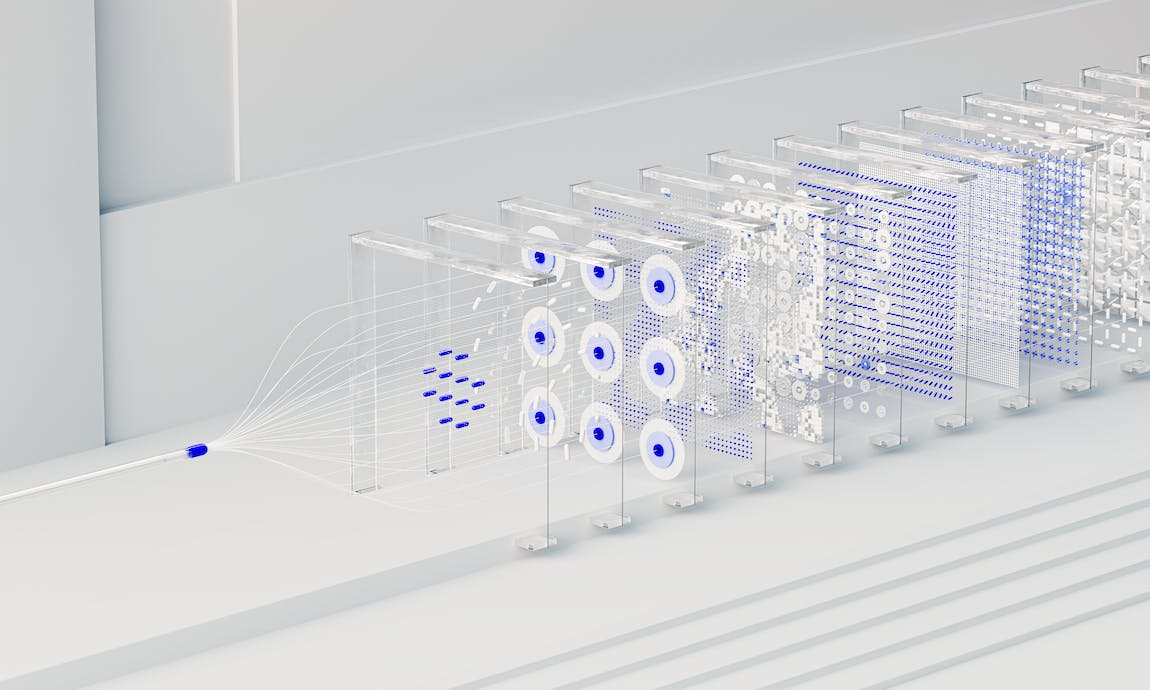
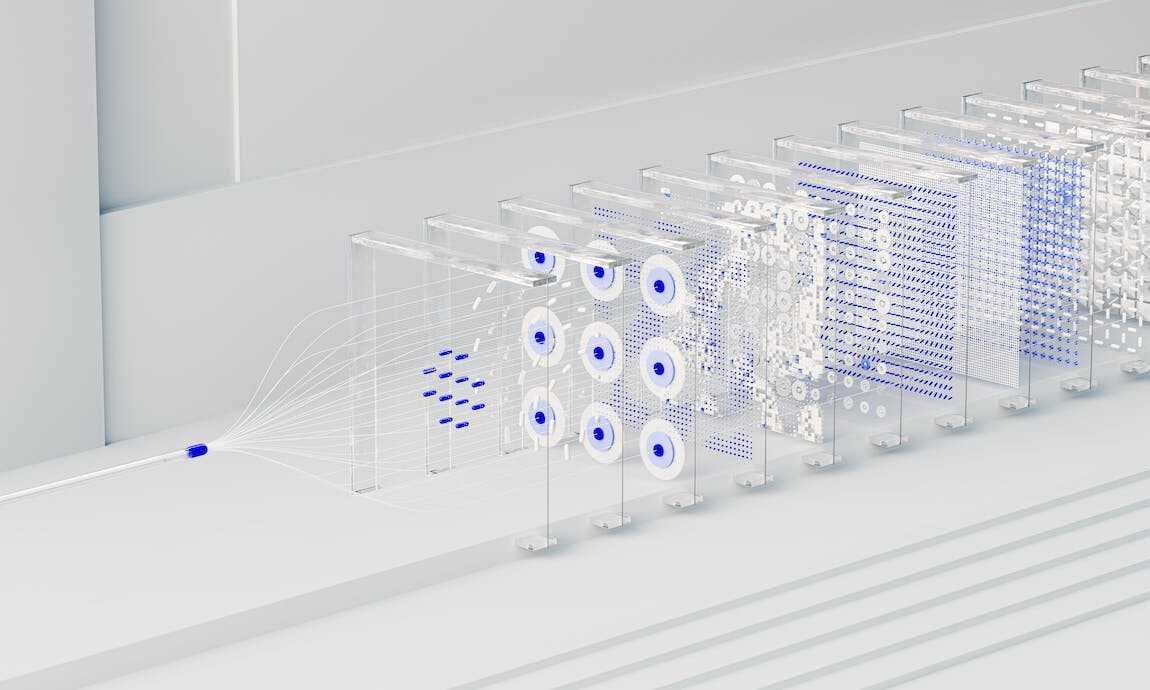
image optimization

diff --git a/components/blog/relatedSlide.tsx b/components/blog/relatedSlide.tsx
@@ -1,11 +1,12 @@
 "use client"
 
-import { Box } from "@mui/material";
-import { FunctionComponent, useState } from "react";
+import { Box, Fab } from "@mui/material";
+import { FunctionComponent, MouseEvent, useEffect, useRef, useState } from "react";
 import Title from "../home/title";
 import { useKeenSlider } from "keen-slider/react";
 import { Blog } from "./types";
 import BlogCard from "./blog-card";
+import { ArrowBackIosNewOutlined, ArrowForwardIosOutlined } from "@mui/icons-material";
 
 interface RelatedBlogsProps {
     blogs: Blog[]
@@ -13,23 +14,29 @@ interface RelatedBlogsProps {
 
 const RelatedBlogs: FunctionComponent<RelatedBlogsProps> = ({ blogs }) => {
     const [loaded, setLoaded] = useState<boolean>(false);
+    const conRef = useRef<HTMLDivElement>();
+    const [currentSlide, setCurrentSlide] = useState(0)
     const [sliderRef, instanceRef] = useKeenSlider(
         {
             breakpoints: {
                 "(min-width: 600px)": {
-                    slides: { perView: 1.8, spacing: 5 },
+                    slides: { perView: 2 }
                 },
                 "(min-width: 900px)": {
-                    slides: { perView: 3.1, spacing: 10 },
+                    slides: { perView: 3 }
                 },
                 "(min-width: 1200px)": {
-                    slides: { perView: 3.8, spacing: 10 },
+                    slides: { perView: 4 }
                 }
             },
             slides: {
-                perView: 1.3,
-                spacing: 5,
+                perView: 1
             },
+            initial: 0,
+            slideChanged(slider) {
+                setCurrentSlide(slider.track.details.rel)
+            },
+            mode: "snap",
             created() {
                 setLoaded(true);
             }
@@ -38,6 +45,16 @@ const RelatedBlogs: FunctionComponent<RelatedBlogsProps> = ({ blogs }) => {
             // add plugins here
         ]
     )
+
+
+    const handlePrev = () => {
+        instanceRef.current?.prev();
+    }
+
+    const handleNext = () => {
+        instanceRef.current?.next();
+    }
+
     return (
         <Box>
             <Title
@@ -45,30 +62,84 @@ const RelatedBlogs: FunctionComponent<RelatedBlogsProps> = ({ blogs }) => {
                 secondary="Some Blogs from same Category"
             />
             <Box
-                ref={sliderRef}
-                className="keen-slider"
+                sx={{
+                    position: "relative"
+                }}
+                ref={conRef}
             >
-                {
-                    blogs.map(blog => (
-                        <Box
-                            key={`blg-itm-${blog.id}`}
-                            className="keen-slider__slide"
-                        >
-                            {
-                                loaded ?
+                <Box
+                    ref={sliderRef}
+                    className="keen-slider"
+                >
+                    {
+                        blogs.map(blog => (
+                            <Box
+                                key={`blg-itm-${blog.id}`}
+                                className="keen-slider__slide"
+                                sx={{
+                                    "&:hover": {
+                                        zIndex: 2
+                                    }
+                                }}
+                            >
+                                <Box
+                                    sx={{
+                                        px: 0.5
+                                    }}
+                                >
                                     <BlogCard
                                         blog={blog}
                                     />
-                                    :
+                                </Box>
+                            </Box>
+                        ))
+                    }
 
-                                    <Box
-                                        className="keen-slider__slide"
-                                    >Loading...</Box>
-                            }
-                        </Box>
-                    ))
+                </Box>
+                {
+                    currentSlide !== 0 ?
+                        <Fab
+                            onClick={handlePrev}
+                            color="secondary"
+                            size={"small"}
+                            sx={{
+                                position: "absolute",
+                                top: "50%",
+                                zIndex: 1,
+                                transition: ".2s z-index linear",
+                                left: 0,
+                                transform: {
+                                    sm: "translate(-50%, -50%)"
+                                }
+                            }}
+                        >
+                            <ArrowBackIosNewOutlined />
+                        </Fab>
+                        :
+                        null
                 }
-
+                {
+                    instanceRef.current?.track?.details.maxIdx !== currentSlide ?
+                        <Fab
+                            color="secondary"
+                            size={"small"}
+                            sx={{
+                                position: "absolute",
+                                top: "50%",
+                                zIndex: 1,
+                                transition: ".2s z-index linear",
+                                right: 0,
+                                transform: {
+                                    sm: "translate(30%, -50%)"
+                                }
+                            }}
+                            onClick={handleNext}
+                        >
+                            <ArrowForwardIosOutlined />
+                        </Fab>
+                        :
+                        null
+                }
             </Box>
         </Box>
     );

diff --git a/components/home/blogs/home-blog-loading.tsx b/components/home/blogs/home-blog-loading.tsx
@@ -1,0 +1,63 @@
+"use client"
+
+import { Container, Grid, Skeleton } from "@mui/material";
+import { FunctionComponent } from "react";
+
+interface BlogListLoadingProps {
+
+}
+
+const BlogListLoading: FunctionComponent<BlogListLoadingProps> = () => {
+    return (
+        <Container maxWidth={"xl"}>
+            <Grid container spacing={2}>
+                {
+                    [1, 2, 3, 4, 5, 6].map(skltn => (
+                        <Grid
+                            item
+                            xs={12}
+                            sm={6}
+                            md={4}
+                            key={"skeleton-" + skltn}
+                        >
+                            <Skeleton
+                                variant="rounded"
+                                height={250}
+                                sx={{
+                                    aspectRatio: "5/3",
+                                    mb: 2,
+                                    width: "100%",
+                                    display: "block"
+                                }}
+                            />
+
+                            <Skeleton
+                                variant="rounded"
+                                sx={{
+                                    mb: 2
+                                }}
+                                height={50}
+                            />
+                            <Skeleton
+                                variant="rounded"
+                                sx={{
+                                    mb: 1
+                                }}
+                                height={20}
+                            />
+                            <Skeleton
+                                variant="rounded"
+                                sx={{
+                                    mb: 1
+                                }}
+                                height={20}
+                            />
+                        </Grid>
+                    ))
+                }
+            </Grid>
+        </Container>
+    );
+}
+
+export default BlogListLoading;

diff --git a/components/blog/server-read.tsx b/components/blog/server-read.tsx
@@ -47,15 +47,16 @@ const ServerRead: FunctionComponent<ServerReadProps> = ({ blog }) => {
                         gap: 2,
                         width: "100%",
                         justifyContent: "space-between",
-                        maxWidth: "100vw"
+                        maxWidth: "calc(100vw - 10px)"
                     }}>
                         <div
-                            className={`malda-rte ${styles['px-4']} + ${styles['mw-md']}`}
+                            className={`malda-rte ${blogStyle['inner-container']}`}
                             style={{
                                 boxSizing: "border-box",
                                 flexGrow: 1,
                                 width: "100%",
-                                overflow: "clip"
+                                overflow: "clip",
+                                padding: "10px"
                             }}
                         >
                             <BlogStyleWrapper>
@@ -69,8 +70,7 @@ const ServerRead: FunctionComponent<ServerReadProps> = ({ blog }) => {
                         <div
                             style={{
                                 position: "sticky",
-                                top: 80,
-                                paddingRight: "10px"
+                                top: 80
                             }}
                         >
                             <ShareButtons blog={blog} />

diff --git a/components/blog/style-wrapper.tsx b/components/blog/style-wrapper.tsx
@@ -4,21 +4,15 @@ import { Box, Chip, alpha } from "@mui/material";
 import { FunctionComponent, ReactNode } from "react";
 import { Blog } from "./types";
 import { blue } from "@mui/material/colors";
-import { Fira_Sans } from "next/font/google"
 
 interface BlogStyleWrapperProps {
     children: ReactNode
 }
 
-const fira = Fira_Sans({
-    subsets: ['latin'],
-    weight: ['100', '200', '300', '400', '500', '600', '700', '800', '900']
-});
 
 const BlogStyleWrapper: FunctionComponent<BlogStyleWrapperProps> = ({ children }) => {
     return (
         <Box
-            className={fira.className}
             sx={{
                 "& .editor div": {
                     p: 0

diff --git a/components/blog/blog-card.tsx b/components/blog/blog-card.tsx
@@ -17,6 +17,7 @@ const BlogCard: FunctionComponent<BlogCardProps> = ({
     return (
         <Card
             elevation={0}
+            className={"blog-item"}
         >
             <CardMedia
                 component={"img"}
@@ -28,7 +29,6 @@ const BlogCard: FunctionComponent<BlogCardProps> = ({
                     borderRadius: 4,
                     bgcolor: "divider"
                 }}
-                loading="lazy"
             />
             <CardContent sx={{ pb: 0 }}>
                 <Chip

diff --git a/components/wrappers/wholeWrapper.tsx b/components/wrappers/wholeWrapper.tsx
@@ -94,9 +94,9 @@ const WholeWrapper: FunctionComponent<WholeWrapperProps> = ({ children }) => {
 
     useEffect(() => {
         axios.get("/home", {
-            ky: "page",
-        }).then(page => {
-            if (page) dispatch(setInitialPage({ status: "idle", home: page.home }));
+            ky: "blogs",
+        }).then(blogs => {
+            if (blogs) dispatch(setInitialPage({ status: "idle", home: {blogs: blogs} }));
         })
 
         return () => {

diff --git a/config/variables.ts b/config/variables.ts
@@ -1,6 +1,6 @@
-export const server_url = "http://localhost:8000"
-export const app_url = "http://localhost:3000"
+// export const server_url = "http://localhost:8000"
+// export const app_url = "http://localhost:3000"
 
 
-// export const server_url = "https://b.tech-scan.com"
-// export const app_url = "https://tech-scan.com"
+export const server_url = "https://b.tech-scan.com"
+export const app_url = "https://tech-scan.com"

diff --git a/components/home/nav/appbar.tsx b/components/home/nav/appbar.tsx
@@ -50,8 +50,8 @@ function ResponsiveAppBar() {
           bgcolor: theme => alpha(theme.palette.background.paper, .5),
           backdropFilter: "blur(14px)",
           color: "primary.dark",
-          borderBottom: 1,
-          borderColor: "divider",
+          // borderBottom: 1,
+          // borderColor: "divider",
           position: "sticky",
           top: 0,
           zIndex: 999,

diff --git a/utils/progresss.tsx b/utils/progresss.tsx
@@ -17,8 +17,8 @@ const Progresss: FunctionComponent<ProgresssProps> = () => {
                 "& .progress-bar": {
                     position: "fixed",
                     top: {
-                        xs: 56,
-                        md: 70
+                        xs: 54,
+                        md: 69
                     },
                     left: 0,
                     right: 0,

diff --git a/components/home/hero/image.tsx b/components/home/hero/image.tsx
@@ -47,8 +47,8 @@ const HeroImage: FunctionComponent<HeroImageProps> = () => {
             </Box> */}
             <Box
                 component={"img"}
-                src={"/hero.png"}
-                alt={"Tech Scan"}
+                src={"/hero.webp"}
+                alt={"Tech Scan, Malda Motuma"}
                 sx={{
                     width: "100%",
                     pl: {

diff --git a/components/home/contact/index.tsx b/components/home/contact/index.tsx
@@ -128,7 +128,7 @@ const Contact: FunctionComponent<ContactProps> = () => {
                 <Box
                     component={"img"}
                     alt={""}
-                    src={"/contact.png"}
+                    src={"/contact.webp"}
                     sx={{
                         width: "30%",
                         // height: "calc(100% + 50px)",

diff --git a/components/blog/styles/blog.module.scss b/components/blog/styles/blog.module.scss
@@ -98,6 +98,10 @@ $breakpoints: (
         }
     }
 
+    .inner-container {
+        max-width: 600px;
+    }
+
 
 }
 
@@ -144,6 +148,10 @@ $breakpoints: (
             display: block;
             position: sticky;
             top: 80px;
+        }
+
+        .inner-container {
+            max-width: 750px;
         }
     }
 }
